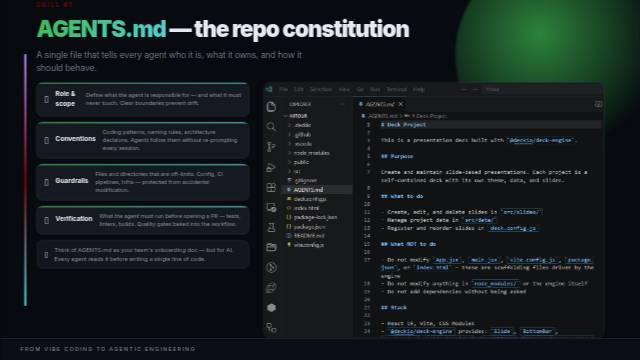
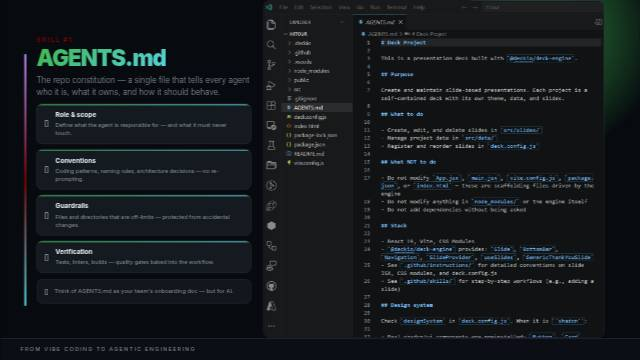
Auto-save from DECKIO — 2026-04-07T08:43

diff --git a/src/slides/AgentsMdSlide.jsx b/src/slides/AgentsMdSlide.jsx
@@ -10,36 +10,44 @@ export default function AgentsMdSlide({ index, project }) {
       <div className={`orb ${styles.orb2}`} />
 
       <div className={`${styles.body} content-frame content-gutter`}>
-        <p className={styles.eyebrow}>Skill #1</p>
-        <h1>
-          <span className={styles.highlight}>AGENTS.md</span> — the repo constitution
-        </h1>
-        <p className={styles.subtitle}>
-          A single file that tells every agent who it is, what it owns, and how it should behave.
-        </p>
-
         <div className={styles.columns}>
           <div className={styles.left}>
+            <div>
+              <p className={styles.eyebrow}>Skill #1</p>
+              <h1>
+                <span className={styles.highlight}>AGENTS.md</span>
+              </h1>
+              <p className={styles.subtitle}>The repo constitution — a single file that tells every agent who it is, what it owns, and how it should behave.</p>
+            </div>
+
             <div className={styles.cards}>
               <div className={styles.card}>
                 <div className={styles.cardIcon}>🎯</div>
-                <h3>Role &amp; scope</h3>
-                <p>Define what the agent is responsible for — and what it must never touch. Clear boundaries prevent drift.</p>
+                <div>
+                  <h3>Role &amp; scope</h3>
+                  <p>Define what the agent is responsible for — and what it must never touch.</p>
+                </div>
               </div>
               <div className={styles.card}>
                 <div className={styles.cardIcon}>📐</div>
-                <h3>Conventions</h3>
-                <p>Coding patterns, naming rules, architecture decisions. Agents follow them without re-prompting every session.</p>
+                <div>
+                  <h3>Conventions</h3>
+                  <p>Coding patterns, naming rules, architecture decisions — no re-prompting.</p>
+                </div>
               </div>
               <div className={styles.card}>
                 <div className={styles.cardIcon}>🚧</div>
-                <h3>Guardrails</h3>
-                <p>Files and directories that are off-limits. Config, CI pipelines, infra — protected from accidental modification.</p>
+                <div>
+                  <h3>Guardrails</h3>
+                  <p>Files and directories that are off-limits — protected from accidental changes.</p>
+                </div>
               </div>
               <div className={styles.card}>
                 <div className={styles.cardIcon}>✅</div>
-                <h3>Verification</h3>
-                <p>What the agent must run before opening a PR — tests, linters, builds. Quality gates baked into the workflow.</p>
+                <div>
+                  <h3>Verification</h3>
+                  <p>Tests, linters, builds — quality gates baked into the workflow.</p>
+                </div>
               </div>
             </div>
 
@@ -47,7 +55,6 @@ export default function AgentsMdSlide({ index, project }) {
               <span className={styles.calloutIcon}>💡</span>
               <p>
                 Think of AGENTS.md as your team's onboarding doc — but for AI.
-                Every agent reads it before writing a single line of code.
               </p>
             </div>
           </div>

diff --git a/src/slides/AgentsMdSlide.module.css b/src/slides/AgentsMdSlide.module.css
@@ -34,7 +34,6 @@
   z-index: 10;
   display: flex;
   flex-direction: column;
-  gap: 14px;
   flex: 1;
   min-height: 0;
 }
@@ -45,6 +44,7 @@
   text-transform: uppercase;
   letter-spacing: 2.5px;
   color: var(--accent);
+  margin-bottom: 4px;
 }
 
 .body h1 {
@@ -62,17 +62,17 @@
 }
 
 .subtitle {
-  font-size: clamp(14px, 1.4vw, 17px);
+  font-size: clamp(13px, 1.3vw, 16px);
   font-weight: 300;
   color: var(--muted-foreground);
-  line-height: 1.6;
-  max-width: 540px;
+  line-height: 1.5;
+  margin-top: 6px;
 }
 
 .columns {
   display: grid;
   grid-template-columns: 1fr 60%;
-  gap: 28px;
+  gap: 24px;
   flex: 1;
   min-height: 0;
 }
@@ -82,6 +82,7 @@
   flex-direction: column;
   gap: 12px;
   min-height: 0;
+  justify-content: center;
 }
 
 .cards {
